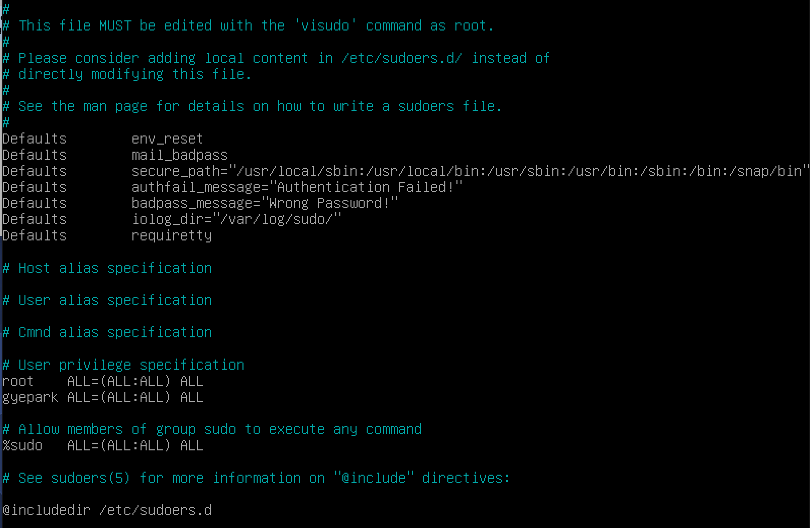
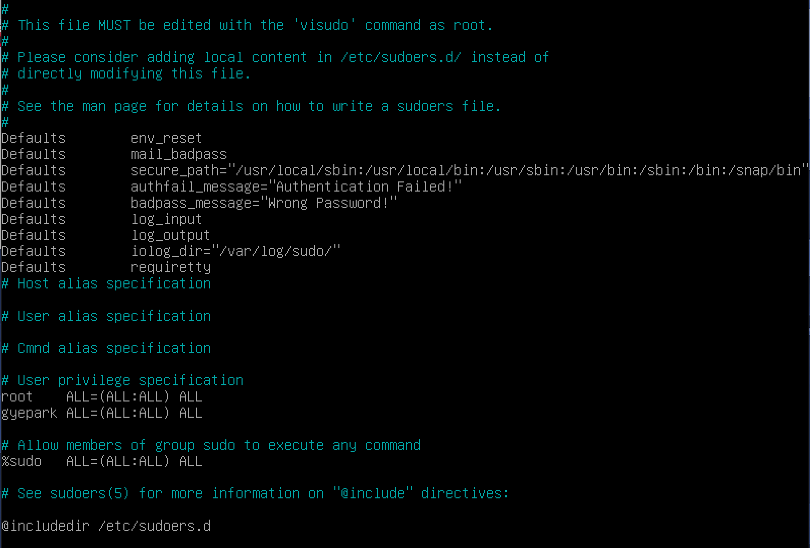
[in progress]monitoring.sh

Changed region(s): [[0.0, 0.0, 1.0, 0.9091], [0.0, 0.9394, 0.2778, 1.0]]

diff --git a/born2beroot/README.md b/born2beroot/README.md
@@ -489,6 +489,8 @@ sudo 명령과 관련된 모든 설정은 configuration file인 /etc/sudoers에 
 
 [sudoers(5) - sudo - Debian buster - Debian Manpages](https://manpages.debian.org/buster/sudo/sudoers.5.en.html)
 
+["Linux에서 'sudo'설정을위한 10 가지 유용한 Sudoers 구성"](https://ko.linux-console.net/?p=1985)
+
 **1. 유효하지 않은 비밀번호 입력 횟수 3회로 제한하기**
 
 기본 설정 값이 3회이므로 변경할 것이 없다.
@@ -502,6 +504,8 @@ sudo 명령과 관련된 모든 설정은 configuration file인 /etc/sudoers에 
 ![Untitled](born2beroot%20991e755a6ccf4ca58516019422404b62/Untitled%20107.png)
 
 **3. sudo와 관련된 input, ouput 모두 /var/log/sudo/ 폴더에 저장하기**
+
+`mkdir /var/log/sudo`
 
 **Boolean Flags**
 
@@ -736,9 +740,47 @@ UFW는 기본적으로 incoming connections는 모두 막고 outgoing connection
     
     total : `df -h  --total | grep total | awk '{print $1}' | tr -d 'G'`
     
+- [CPU load](https://manpages.debian.org/unstable/procps/top.1.en.html)
+    
+    100.0 - value of “id” field
+    
+    `top -b -n1 | grep '^%Cpu(s)' | sed s/%Cpu\(s\)://g | cut -f 4 -d ',' | tr -d ' id' | xargs | awk '{printf("%.1f\n%%"), 100.0 - $1}'`
+    
+- [Last reboot](https://manpages.debian.org/unstable/coreutils/who.1.en.html)
+    
+    [How to View Linux System Reboot Date and Time](https://www.thegeekstuff.com/2011/10/linux-reboot-date-and-time/)
+    
+    `who -b | xargs | awk '{print $3 " " $4}'`
+    
+- [LVM use](https://manpages.debian.org/stretch/util-linux/lsblk.8.en.html)
+    
+    [Bash에서 if...else 문을 사용하는 방법](https://www.delftstack.com/ko/howto/linux/how-to-use-if-else-statement-in-bash/)
+    
+    nlvm : `lsblk | grep lvm | wc -l` → `nlvm=$(lsblk | grep lvm | wc -l)`
+    
+    `if [ $nLVM -eq 0]; then echo 'no'; else echo 'yes'; fi`
+    
+- [Connections TCP](https://manpages.debian.org/stretch/iproute2/ss.8.en.html)
+    
+    `ss -t state established | wc -l | awk '{print $1 - 1}'`
+    
+- [User log](https://www.computerhope.com/issues/ch001649.htm)
+    
+    `who | wc -l`
+    
+- Network
+    
+    [IPv4](https://linuxtect.com/how-to-find-ip-address-in-linux-ubuntu-debian-mint-centos/) : `hostname -I`
+    
+    [MAC](https://ecs.rutgers.edu/how-find-your-physical-mac-address) : `ip addr | grep 'link/ether' | xargs | awk '{print $2}'`
+    
 - 
 
 ## dhclient (udp) 제거하기
+
+## 외부에서 SSH 연결하기
+
+- 연결 후, tcp connection 수가 1인지 확인하기
 
 ## virtual machine 백업하기 - snapshot
 
@@ -913,6 +955,8 @@ physical processor virtual processor
 
 [4.2. Installing, Step by Step](https://debian-handbook.info/browse/stable/sect.installation-steps.html)
 
+[lsblk(8) - util-linux - Debian stretch - Debian Manpages](https://manpages.debian.org/stretch/util-linux/lsblk.8.en.html)
+
 [](https://linuxize.com/post/how-to-list-installed-packages-on-debian/)
 
 [](https://linuxize.com/post/how-to-list-users-in-linux/)
@@ -932,6 +976,8 @@ physical processor virtual processor
 [Debian superuser rights (sudo, visudo) | Serverspace](https://serverspace.io/support/help/debian-superuser-rights-sudo-visudo/)
 
 [sudoers(5) - sudo - Debian buster - Debian Manpages](https://manpages.debian.org/buster/sudo/sudoers.5.en.html)
+
+["Linux에서 'sudo'설정을위한 10 가지 유용한 Sudoers 구성"](https://ko.linux-console.net/?p=1985)
 
 [](https://linuxize.com/post/how-to-create-groups-in-linux/)
 
@@ -968,3 +1014,17 @@ physical processor virtual processor
 [df invocation (GNU Coreutils 9.0)](https://www.gnu.org/software/coreutils/manual/html_node/df-invocation.html#df-invocation)
 
 [df (Unix) - Wikipedia](https://en.wikipedia.org/wiki/Df_(Unix))
+
+[top(1) - procps - Debian unstable - Debian Manpages](https://manpages.debian.org/unstable/procps/top.1.en.html)
+
+[How to View Linux System Reboot Date and Time](https://www.thegeekstuff.com/2011/10/linux-reboot-date-and-time/)
+
+[who(1) - coreutils - Debian unstable - Debian Manpages](https://manpages.debian.org/unstable/coreutils/who.1.en.html)
+
+[LVM](https://wiki.debian.org/LVM)
+
+[Bash에서 if...else 문을 사용하는 방법](https://www.delftstack.com/ko/howto/linux/how-to-use-if-else-statement-in-bash/)
+
+[ss(8) - iproute2 - Debian stretch - Debian Manpages](https://manpages.debian.org/stretch/iproute2/ss.8.en.html)
+
+[How to view and count users on a Linux system](https://www.computerhope.com/issues/ch001649.htm)
